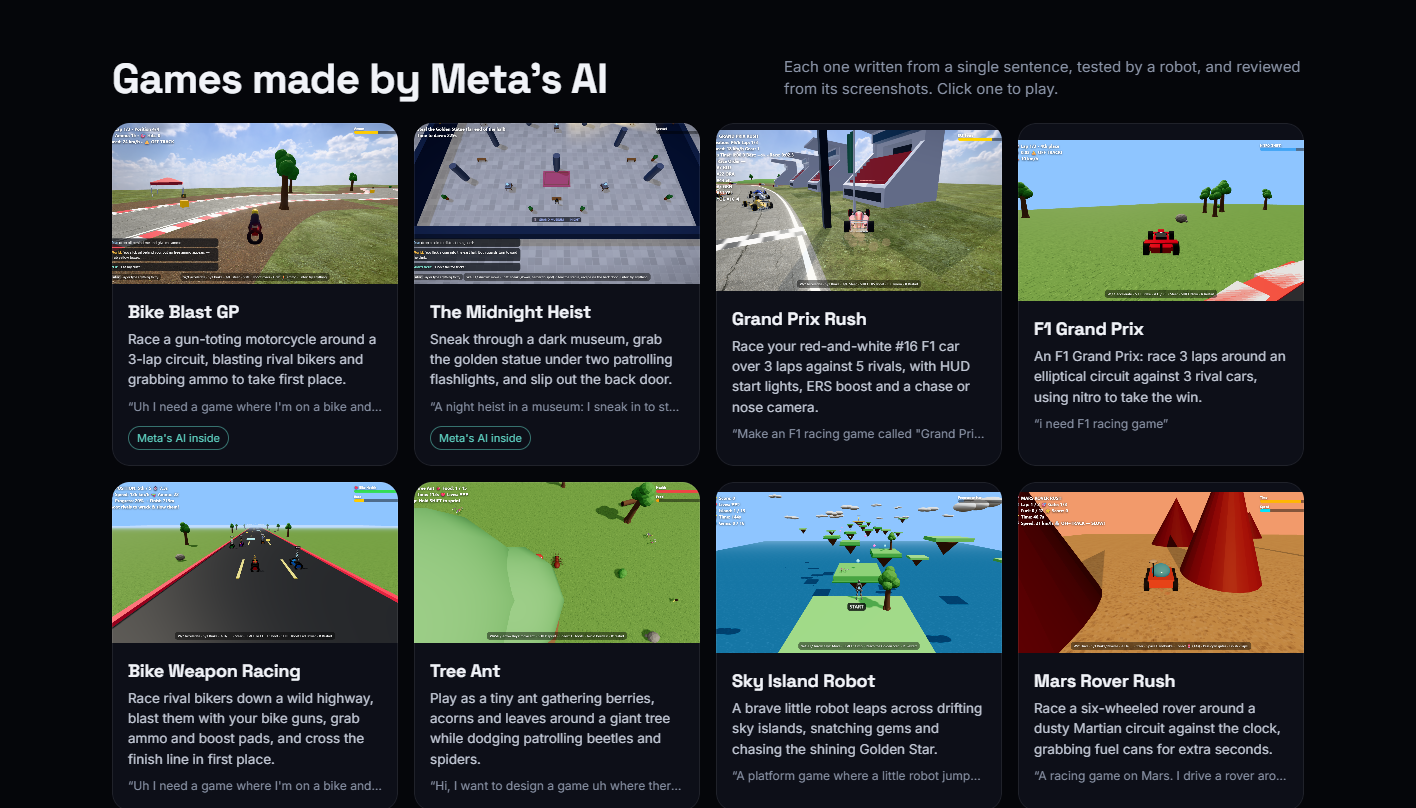
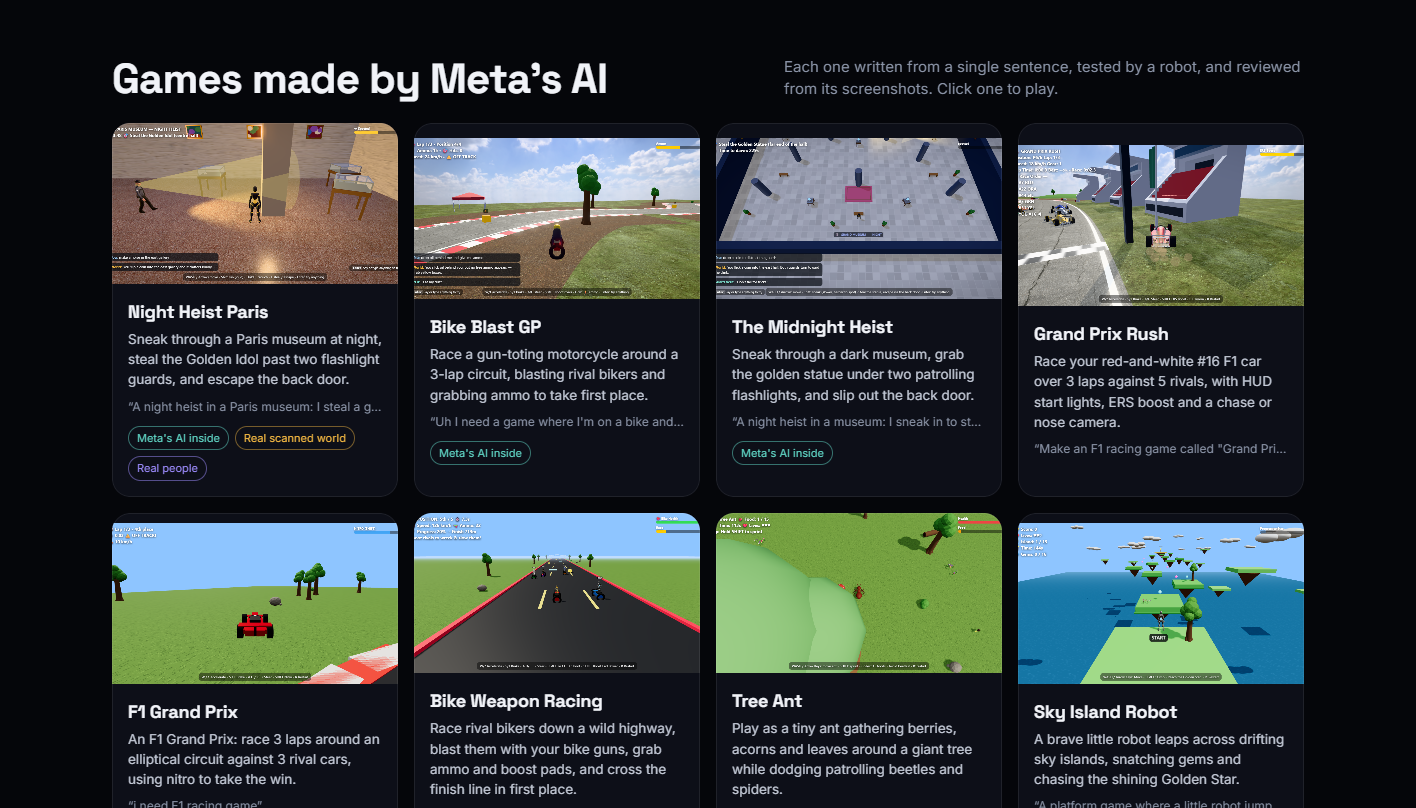
The final product: a game made and played through the new studio
- Night Heist Paris, made from the "Paris museum heist" example in 3
  versions (3.2 min, $0.78): Rocketbox security guards with minds, a Poly
  Haven night sky, terrazzo floor, plaster walls, a marble bust and vases;
  the world model and both guards reacted to a thrown coin.
- The README now leads with Speak Any Game; Rewind moves under "Also in
  this repo". Build log step 31 records the run.
- Fixes from the run: the "learning from this round" note no longer covers
  the end message, the writer uses real people for the player too, and
  the gallery spots real people chosen through a variable.

diff --git a/src/make/writer.ts b/src/make/writer.ts
@@ -136,7 +136,7 @@ ${scannedModels || "  (none installed)"}
 - kit.remove(object) takes something out of the game.
 Characters:
 - kit.character(look, { at, color: "#rrggbb", scale, turn }): an animated person or creature.
-${peopleList ? `  - Real people, realistic and real size: use them for every human, unless the game is a cartoon or needs a robot, ghost or creature. ${peopleList}.\n  - They show a moment after the game starts (they load from the server), and also have the animations "crouch", "look" (looking around), "cheer" and "talk". c.speeds.walk and c.speeds.run (metres per second) match their feet: move them at those speeds, or call c.play("run", speed / c.speeds.run) to fit a faster run.\n  - Other looks, stylised: ${looks}.` : `  - Looks: ${looks}.`}
+${peopleList ? `  - Real people, realistic and real size: use them for every human, the player's own character included, unless the game is a cartoon or needs a robot, ghost or creature. Pick by what they wear (a thief or spy can be someone in dark or plain clothes). ${peopleList}.\n  - They show a moment after the game starts (they load from the server), and also have the animations "crouch", "look" (looking around), "cheer" and "talk". c.speeds.walk and c.speeds.run (metres per second) match their feet: move them at those speeds, or call c.play("run", speed / c.speeds.run) to fit a faster run.\n  - Other looks, stylised: ${looks}.` : `  - Looks: ${looks}.`}
 - It returns c: move and turn c.root (a THREE.Group) yourself, and call c.play("idle" | "walk" | "run") to match. c.face(x, z) turns it toward a point; c.height is its height.
 - A character faces +z when its root.rotation.y is 0, so moving forward is position += (sin(rotation.y), 0, cos(rotation.y)) × speed × dt.
 Camera:

diff --git a/public/kit/live.js b/public/kit/live.js
@@ -111,7 +111,7 @@ export function createLive({ report, scene, THREE, label, setPaused, clearKeys, 
     #live-lessons { left: 50%; top: 56px; transform: translateX(-50%); width: min(560px, 86vw); padding: 12px 16px; border-radius: 14px; background: rgba(8, 12, 20, .82); font-size: 14px; line-height: 1.45; transition: opacity 1.2s; }
     #live-lessons b { color: #f5b942; }
     #live-lessons li { margin-top: 3px; }
-    #live-learning { left: 50%; top: calc(50% + 70px); transform: translateX(-50%); width: min(620px, 86vw); text-align: center; font-size: 17px; font-weight: 600; line-height: 1.4; }`;
+    #live-learning { left: 50%; bottom: 96px; transform: translateX(-50%); width: min(620px, 86vw); text-align: center; font-size: 17px; font-weight: 600; line-height: 1.4; }`;
   document.head.append(style);
   const element = (id, tag = "div") => Object.assign(document.body.appendChild(document.createElement(tag)), { id, className: "live" });
   const feedBox = element("live-feed");

diff --git a/src/make/games.ts b/src/make/games.ts
@@ -46,7 +46,8 @@ export interface Features {
 export function featuresOf(code: string, id: string): Features {
   return {
     world: /kit\.(world|mind)\(/.test(code),
-    people: /kit\.character\(\s*["'`](?:[A-Z][a-z]+_){1,2}(?:Male|Female|Adult|Child)?_?\d\d/.test(code),
+    // A Rocketbox name anywhere in the code, such as "Security_Male_01" or "Female_Adult_05".
+    people: /["'`](?:[A-Z][a-z]+_(?:Male|Female)|(?:Male|Female)_(?:Adult|Child))_\d\d["'`]/.test(code),
     scanned: /["'`]polyhaven\//.test(code),
     shot: existsSync(join(GAMES_DIR, `${id}.png`)),
   };

diff --git a/README.md b/README.md
@@ -1,4 +1,40 @@
-# Rewind
+# Speak Any Game
+
+**Say any game. Meta's AI writes it, fills it with a real scanned world and real people, and runs it while you play.**
+
+Put your Meta API key in `.env` (`MODEL_API_KEY=…`), run `npm start`, and open **http://localhost:3000/make.html**. Say or type an idea, or pick one of the example worlds.
+1. **Muse Wonder writes the whole game as code** from your words: the rules, controls and goal. Nothing is a template.
+2. **It builds a real-looking world:**
+   - 466 scanned models, 863 surfaces and 997 photographed skies from Poly Haven (CC0);
+   - 26 realistic people from Microsoft Rocketbox (MIT), who walk, run, crouch, look around, cheer and talk.
+3. **A robot plays it, and Muse Wonder checks the screenshots.** Problems go back to be fixed.
+4. **Meta's AI runs inside the game.**
+   - Press **Enter** and try anything: Muse Spark, as the world model, decides what happens.
+   - Guards and rivals have minds of their own.
+   - After each round, Muse Wonder teaches them your tricks.
+
+| The studio | Making it, live | Night Heist Paris | Meta's AI at work |
+|---|---|---|---|
+| ![The studio](docs/images/final-studio.png) | ![Making the game](docs/images/final-making.png) | ![Night Heist Paris](docs/images/final-heist-playing.png) | ![The world model and the guards' minds](docs/images/final-heist-ai.png) |
+
+**The final test (Nov 4), made and played through the page:** "A night heist in a Paris museum: I steal a golden statue while two security guards patrol with flashlights, and escape through the back door."
+- **It took 3 versions, 3.2 minutes and $0.78.** The reviewer caught a blank grey screen at the start of version 1, and it was fixed.
+- **What it built:**
+  - two Rocketbox security guards, Marc and Léa, each with a mind;
+  - a Poly Haven night sky, terrazzo floor and plaster walls;
+  - a marble bust, vases and a treasure chest;
+  - a golden idol to steal.
+- **Asked "make a noise in the east gallery",** the world model threw a coin that clattered off the marble floor. Both guards went to look: "Who's there? Show yourself!" and "J'entends quelque chose, j'y vais !" ("I hear something, I'm going!").
+
+**The studio page's design** ports components from React Bits (Aurora, Spotlight Card, Shiny Text) and Fancy Components (Text Rotate), and uses COBE for the globe. See [the notices](public/design/THIRD_PARTY.md).
+
+Built for the Meta Global AI Developer Hackathon (Oct 26 – Nov 4, 2026). Track: Indie. Theme: Push the Frontier.
+
+---
+
+## Also in this repo
+
+### Rewind: a world model that runs time backwards
 
 **A world model that runs time backwards.**
 
@@ -8,8 +44,6 @@ Show Rewind one photo of an aftermath, such as a car against a guardrail, a brok
 3. **It paints the moments before, in the same real place.** Muse Image changes the photo itself, going backwards: 1 second before, then 3, then 10. Anything made later, like tyre marks or dents, isn't there yet. Press **Play** to watch it happen, ending on the real photo.
 
 World models usually predict the future. Rewind runs one backwards, from effect to cause, with its reasoning shown and painted. Uses include accident and insurance reports, safety lessons, and everyday mysteries ("what broke the vase?").
-
-Built for the Meta Global AI Developer Hackathon (Oct 26 – Nov 4, 2026). Track: Indie. Theme: Push the Frontier.
 
 | Give it a photo | The evidence and the explanations | 10 seconds before | 1 second before |
 |---|---|---|---|
@@ -89,7 +123,10 @@ Start the server, then open **http://localhost:3000/make.html**. Say or type any
 - **Meta's Muse Wonder writes the whole game as code:** its rules, controls, levels, and how you win or lose. It uses our game kit: 3D worlds, animated people and creatures, ready-made things, cameras, sound and a score display.
 - **A hidden test browser plays it.** Any errors go back to be fixed.
 - **A reviewer checks the screenshots.** Muse Wonder looks at them and sends back anything that looks wrong, such as a missing track, to be fixed.
-- **Real graphics:** a real sky, reflections and glossy paint, and real 3D models by artists. So far that's Kenney's CC0 Racing Kit: F1 cars, grandstands, barriers and more.
+- **Real graphics:** real photographed skies, real scanned objects and surfaces, and realistic people.
+  - **Poly Haven (CC0):** 466 scanned models, 863 surfaces and 997 skies, loaded from its servers.
+  - **Microsoft Rocketbox (MIT):** 26 people (police, guards, soldiers, doctors, chefs, children and more) that walk, run, crouch, look around, cheer and talk.
+  - **Also:** Kenney's CC0 Racing Kit and a detailed F1 car.
 - **You play it on the page,** in a sealed frame that can't reach your files or the API key.
 
 First test: three very different ideas each became a working game in about a minute, on the first try, for $0.10–0.16 each.

diff --git a/docs/BUILD_LOG.md b/docs/BUILD_LOG.md
@@ -37,6 +37,7 @@ Every result below comes from a real run. Nothing is invented.
 | [28](#step-28-real-scanned-models-surfaces-and-skies-in-every-game-poly-haven) | Real scanned models, surfaces and skies in every game (Poly Haven) |
 | [29](#step-29-real-people-in-every-game-microsoft-rocketbox) | Real people in every game (Microsoft Rocketbox) |
 | [30](#step-30-a-new-studio-page-designed-with-react-bits-fancy-components-and-cobe) | A new studio page, designed with React Bits, Fancy Components and COBE |
+| [31](#step-31-the-final-product-a-game-made-and-played-through-the-new-studio) | The final product: a game made and played through the new studio |
 | [Final](#final-check) | Final check, and how to repeat it |
 | [Next](#not-done-yet) | Not done yet |
 
@@ -1313,6 +1314,40 @@ Fixed along the way:
 | Hero | How it works | The gallery | Playing, with Meta's AI beside the game |
 |---|---|---|---|
 | ![Hero](images/studio-hero.png) | ![Steps](images/studio-how.png) | ![Gallery](images/studio-gallery.png) | ![Playing](images/studio-player.png) |
+
+## Step 31: The final product: a game made and played through the new studio
+
+**The test:** the whole product, used as a person would in a headless browser.
+1. Open `make.html` and click the "Paris museum heist" example.
+2. Press "Make my game", and watch the live making view.
+3. Play the game it opens, and press Enter to try the game's own example line.
+
+**Result:**
+- **"Night Heist Paris", in 3 versions, 3.2 minutes and $0.78:**
+  - **Version 1** ran, but the reviewer saw "a blank grey screen at game start", which was sent back.
+  - **Version 3** passed.
+  - **The making view's stages lit up in order:** writing at 9 s, testing at 66 s, ready at 193 s.
+- **What Muse Wonder used:**
+  - the real people `Security_Male_01` and `Security_Female_01` as the guards Marc and Léa, with minds;
+  - Poly Haven's `courtyard_night` sky, `terrazzo_tiles` floor and `plastered_wall` walls;
+  - the `marble_bust_01`, `antique_ceramic_vase_01`, `brass_vase_01` and `treasure_chest` models;
+  - 12 world changes (noise, lights and more).
+- **In play:**
+  - "make a noise in the east gallery" became `make_noise(east gallery)`: "You hurl a coin into the east gallery. It clatters loudly off the marble floor."
+  - Both guards then investigated: Marc said "Who's there? Show yourself!" and Léa "J'entends quelque chose, j'y vais !".
+  - The test's blind forward walk then got caught by a flashlight, and the round ended.
+
+**Fixed after the run:**
+
+| Problem | Fix |
+|---|---|
+| "Meta's AI is learning from this round…" overlapped "Press R to try again" when the end message wrapped onto two lines. | The note sits near the bottom now. |
+| The player was the stylised mannequin (the "thief" look) even though real people were offered. | The writer is now told real people are for every human, the player's own character included, picked by what they wear. |
+| The gallery's "Real people" badge missed games that pick a person's look through a variable. | It now looks for any Rocketbox name in the code. |
+
+| Making it, live | Playing | Meta's AI at work | The gallery |
+|---|---|---|---|
+| ![Making](images/final-making.png) | ![Playing](images/final-heist-playing.png) | ![AI](images/final-heist-ai.png) | ![Gallery](images/final-gallery.png) |
 
 ## Final check
 
